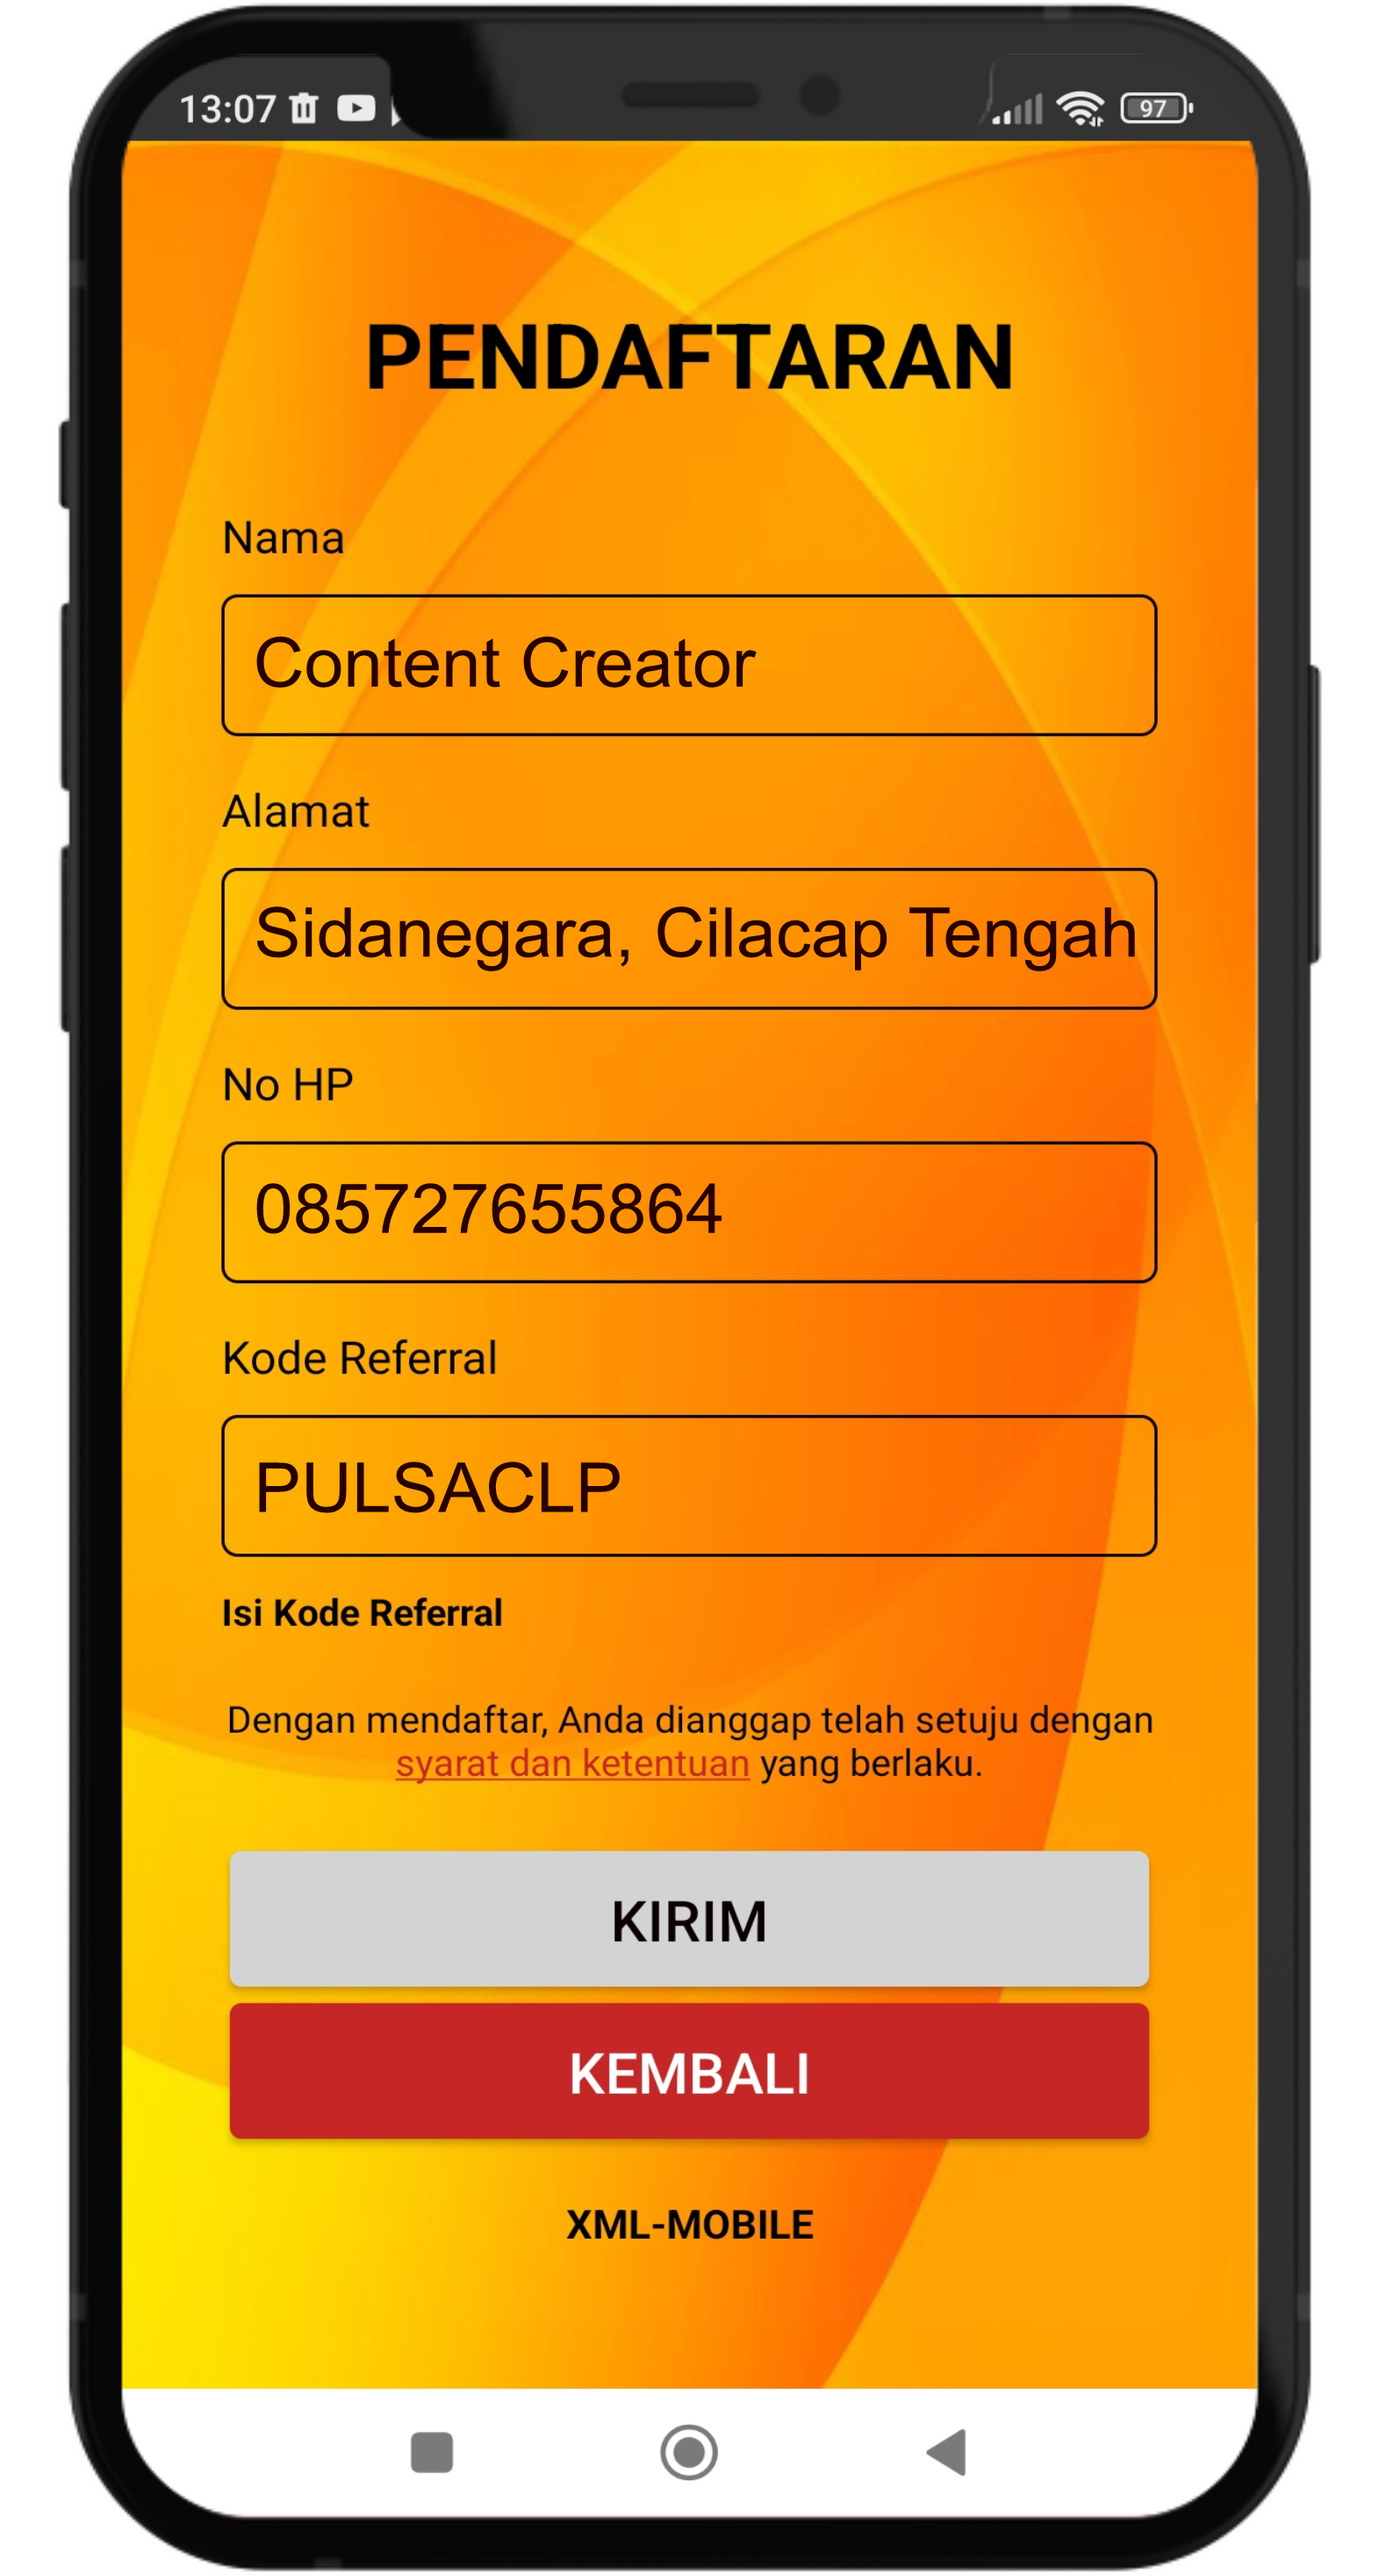
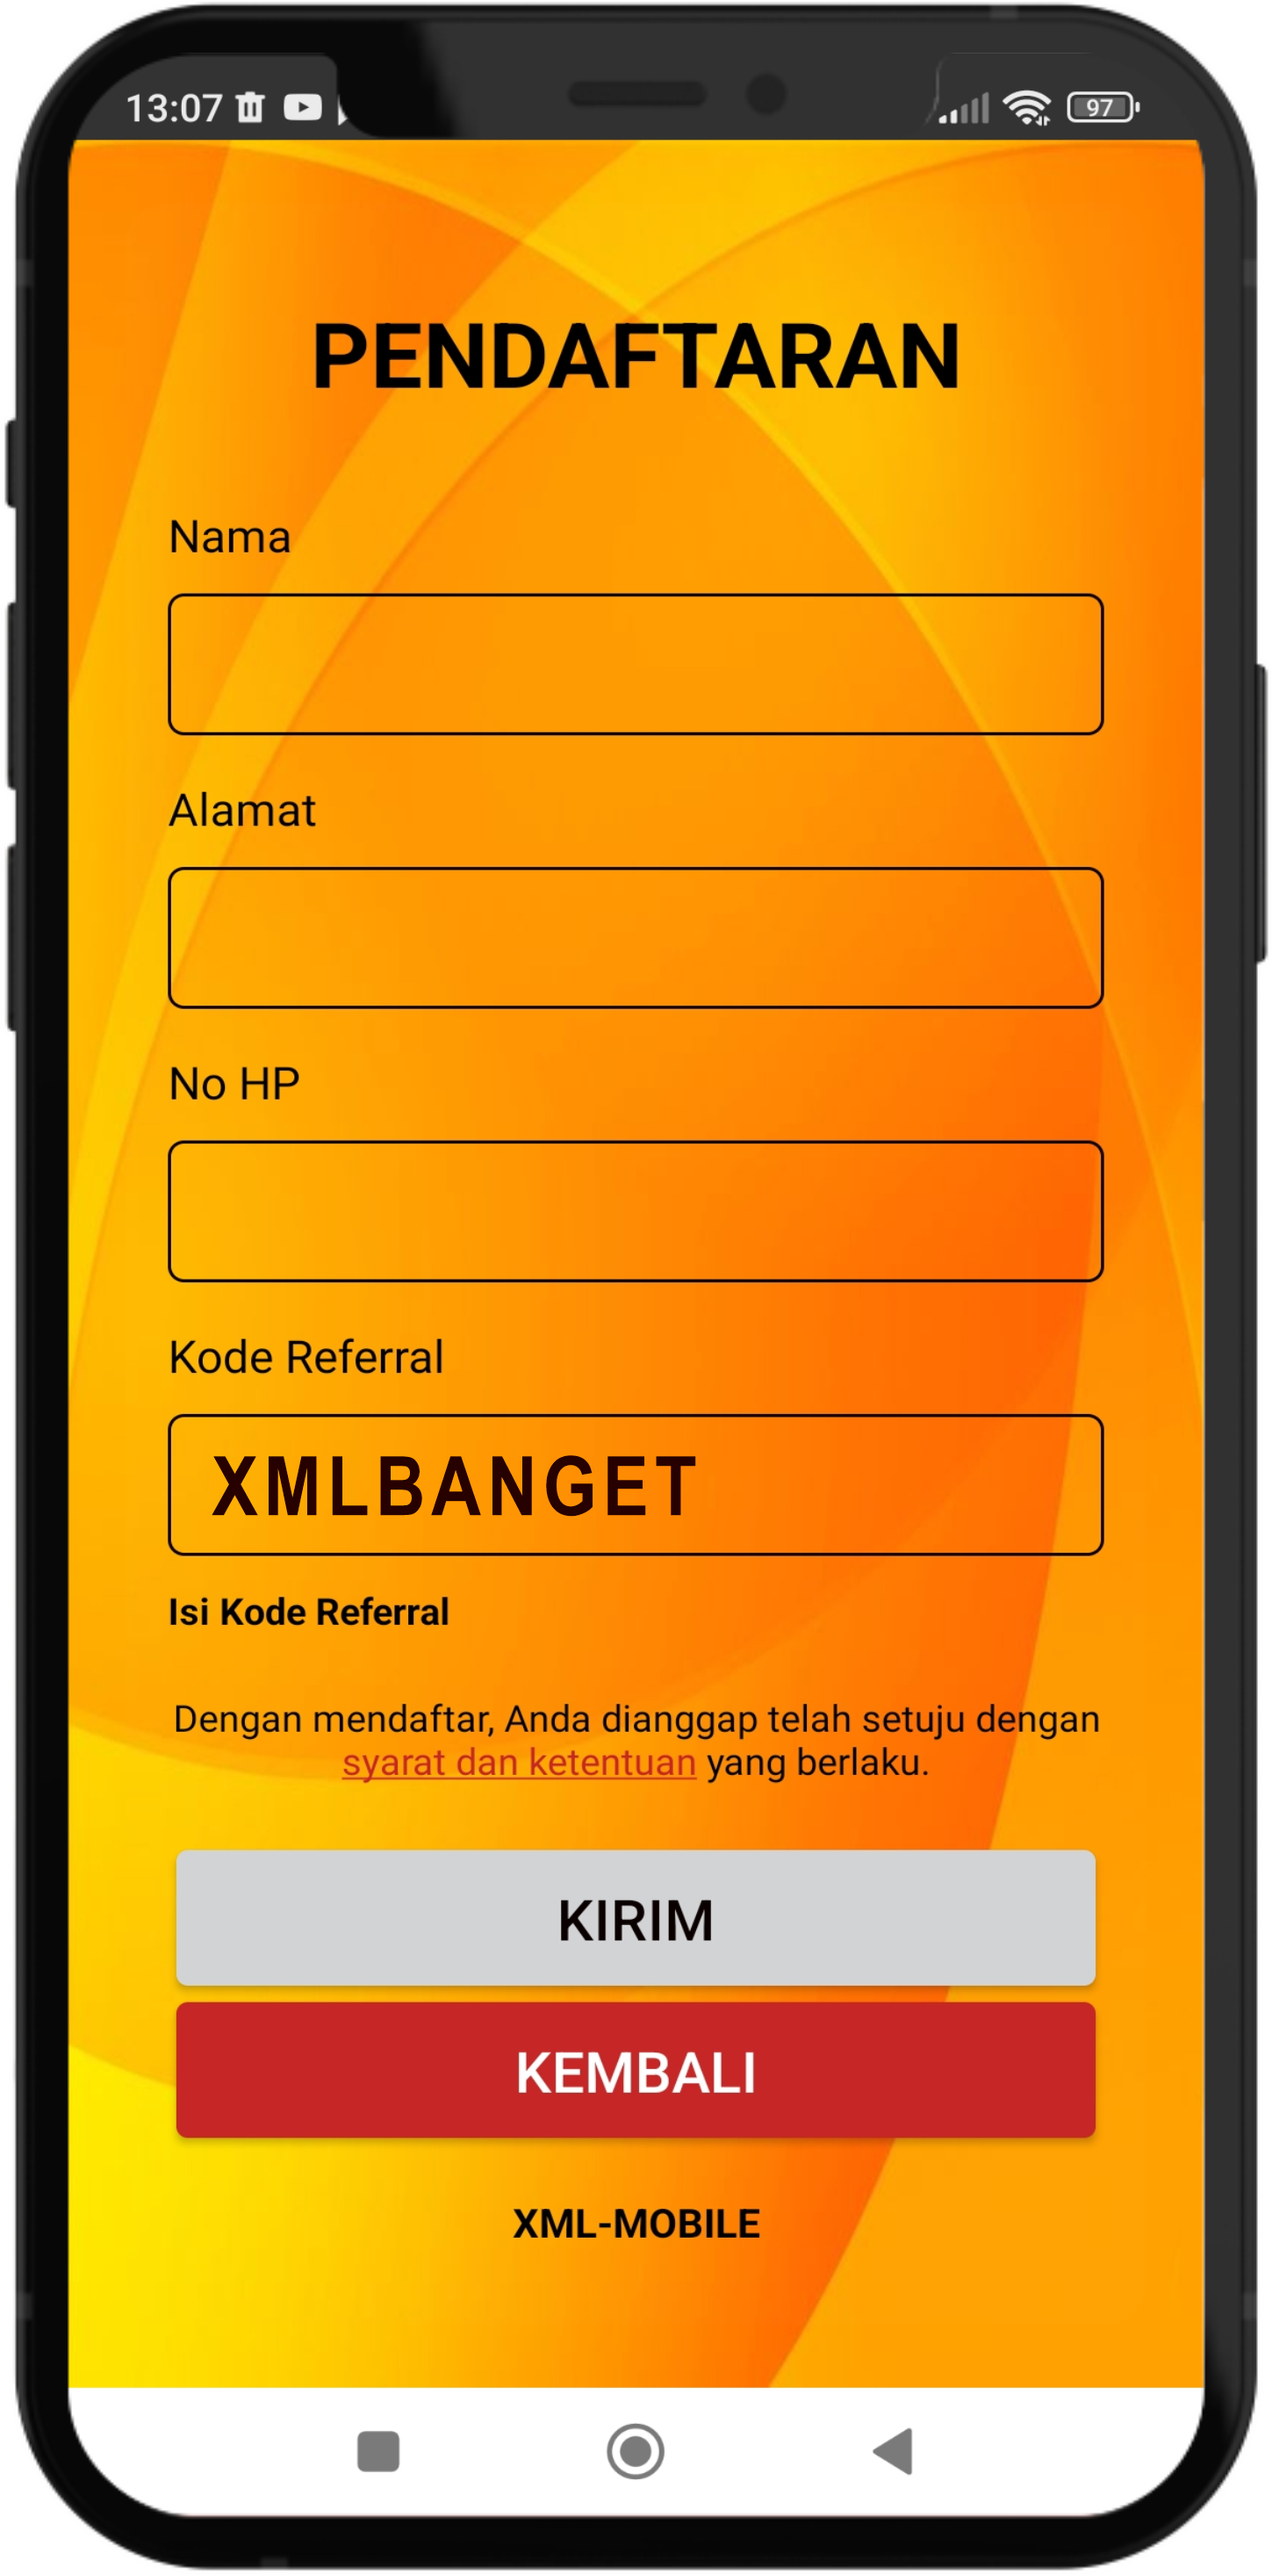
perbaikan kode referal all server dan mockup xml

diff --git a/ssbpay.html b/ssbpay.html
@@ -133,7 +133,7 @@
                             <div class="col-md-4 p-2 text-center">
                                 <img src="assets/img/mockup/daftarssb/ssb pendaftaran.png" alt="Daftar via Aplikasi XML Tronik" style="height: 25em;" class="img-fluid">
                                 <p class="text-dark fw-bold  mt-5">
-                                    Gunakan kode refferal " DAFTARDONG " untuk mendapat harga terbaik
+                                    Gunakan kode refferal " SSBBANGET " untuk mendapat harga terbaik
                                 </p>
                             </div>
                         </div>

diff --git a/sdpmobile.html b/sdpmobile.html
@@ -133,7 +133,7 @@
                             <div class="col-md-4 p-2 text-center">
                                 <img src="assets/img/mockup/daftarsdp/sdp pendaftaran.png" alt="Daftar via Aplikasi XML Tronik" style="height: 25em;" class="img-fluid">
                                 <p class="text-dark fw-bold mt-5">
-                                    Gunakan kode refferal " DAFTARDONG " untuk mendapat harga terbaik
+                                    Gunakan kode refferal " SDPBANGET " untuk mendapat harga terbaik
                                 </p>
                             </div>
                         </div>

diff --git a/xmlmobile.html b/xmlmobile.html
@@ -134,7 +134,7 @@
                             <div class="col-md-4 p-2 text-center">
                                 <img src="assets/img/mockup/daftarxml/xml pendaftaran.png" alt="Daftar via Aplikasi XML Tronik" style="height: 25em;" class="img-fluid">
                                 <p class="text-dark fw-bold mt-5">
-                                    Gunakan kode refferal " DAFTARDONG " untuk mendapat harga terbaik
+                                    Gunakan kode refferal " XMLBANGET " untuk mendapat harga terbaik
                                 </p>
                             </div>
                         </div>

diff --git a/pulsagenggam.html b/pulsagenggam.html
@@ -133,7 +133,7 @@
                             <div class="col-md-4 p-2 text-center">
                                 <img src="assets/img/mockup/daftarpg/pg pendaftaran.png" alt="Daftar via Aplikasi XML Tronik" style="height: 25em;" class="img-fluid">
                                 <p class="text-dark fw-bold mt-5">
-                                    Gunakan kode refferal " DAFTARDONG " untuk mendapat harga terbaik
+                                    Gunakan kode refferal " PGBANGET " untuk mendapat harga terbaik
                                 </p>
                             </div>
                         </div>

diff --git a/pulsahoski.html b/pulsahoski.html
@@ -133,7 +133,7 @@
                             <div class="col-md-4 p-2 text-center">
                                 <img src="assets/img/mockup/daftarph/ph pendaftaran.png" alt="Daftar via Aplikasi XML Tronik" style="height: 25em;" class="img-fluid">
                                 <p class="text-dark fw-bold mt-5">
-                                    Gunakan kode refferal " DAFTARDONG " untuk mendapat harga terbaik
+                                    Gunakan kode refferal " PHBANGET " untuk mendapat harga terbaik
                                 </p>
                             </div>
                         </div>
